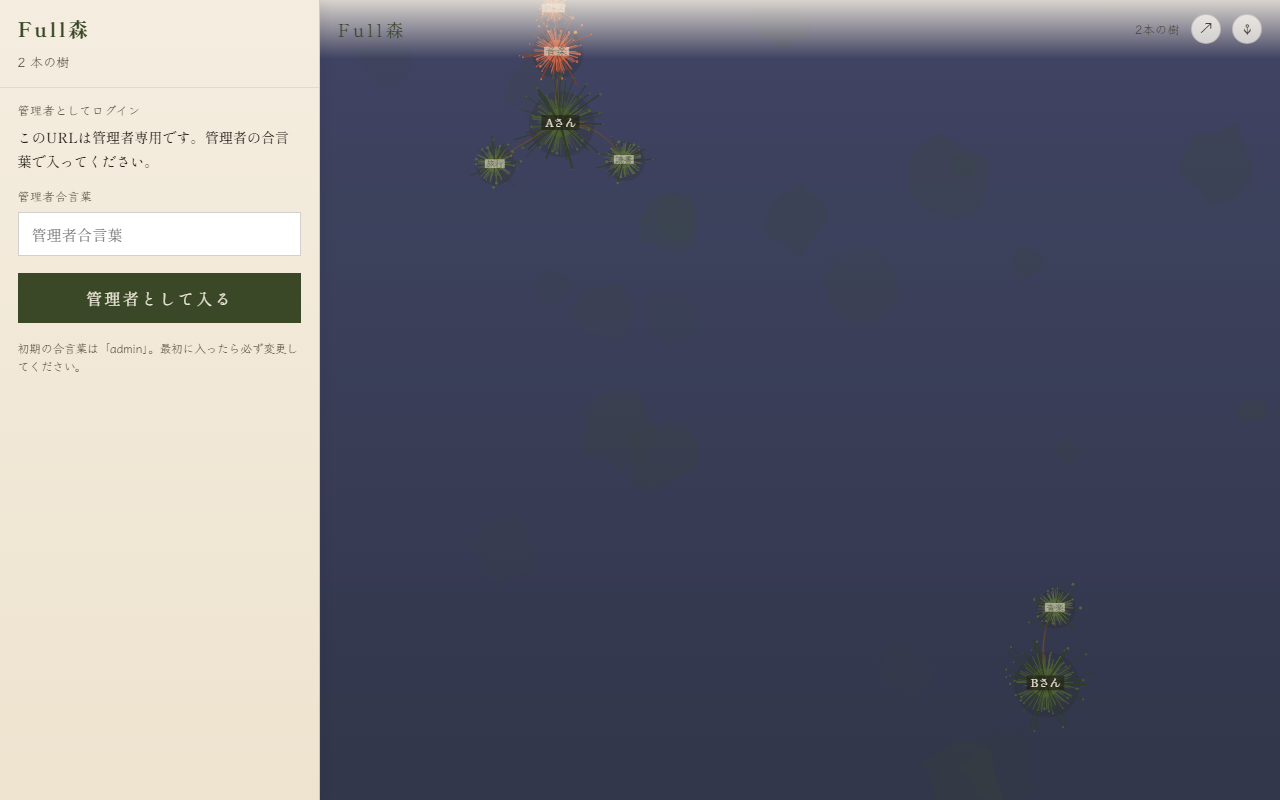
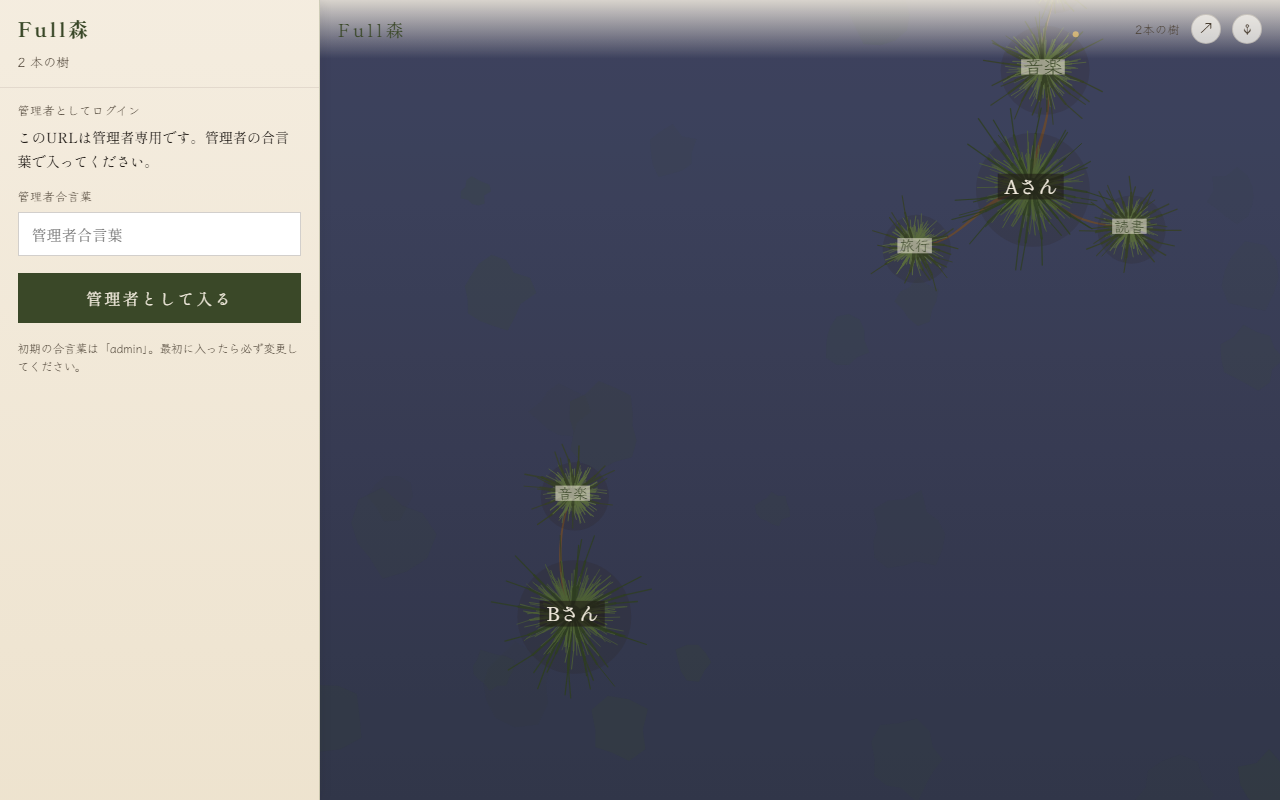
perf: 2-stroke tapered radial + reduced counts
Each radial is 2 strokes (thin full + thick base-40%) instead of 3
segments. Mid-layer count ~45 (was ~80), outer ~28 (was ~50).
Expected 3-4x speedup on bursty-tree scenes.

diff --git a/js/tree.js b/js/tree.js
@@ -1,39 +1,35 @@
 import { seededRandom, stringHash } from './utils.js';
 
-// 1本の放射曲線を先太・先細で描く(3セグメント分割)
-// (cx,cy) から length, angle a, 曲げ bend で先端 (x2,y2) まで
-// wBase→wTip に徐々に細くなる
+// 1本の放射曲線を先太・先細で描く(2ストロークで軽量)
+// 1. 全長を細めで引く(先端)  2. 基部40%だけ太く上書き
 function strokeTaperedRadial(ctx, cx, cy, a, len, bend, col, alpha, wBase, wTip) {
   const x2 = cx + Math.cos(a) * len;
   const y2 = cy + Math.sin(a) * len;
-  // 制御点は垂直方向の bend
   const nx = -Math.sin(a), ny = Math.cos(a);
   const mx = cx + Math.cos(a) * len * 0.5 + nx * bend;
   const my = cy + Math.sin(a) * len * 0.5 + ny * bend;
-  // 3 サンプル点 (t = 0, 0.33, 0.67, 1)
-  const SEG = 3;
-  const pts = [];
-  for (let i = 0; i <= SEG; i++) {
-    const t = i / SEG;
-    const mt = 1 - t;
-    pts.push([
-      mt * mt * cx + 2 * mt * t * mx + t * t * x2,
-      mt * mt * cy + 2 * mt * t * my + t * t * y2
-    ]);
-  }
+
   ctx.strokeStyle = col;
   ctx.globalAlpha = alpha;
   ctx.lineCap = 'round';
-  // 各セグメントを中点の線幅で描画 → 先細り
-  for (let i = 0; i < SEG; i++) {
-    const tMid = (i + 0.5) / SEG;
-    const w = wBase + (wTip - wBase) * tMid;
-    ctx.lineWidth = Math.max(0.4, w);
-    ctx.beginPath();
-    ctx.moveTo(pts[i][0], pts[i][1]);
-    ctx.lineTo(pts[i + 1][0], pts[i + 1][1]);
-    ctx.stroke();
-  }
+
+  // 1) 全長を細めで(先端)
+  ctx.lineWidth = Math.max(0.4, wTip);
+  ctx.beginPath();
+  ctx.moveTo(cx, cy);
+  ctx.quadraticCurveTo(mx, my, x2, y2);
+  ctx.stroke();
+
+  // 2) 基部40%を太く上書き
+  const t = 0.4;
+  const tMt = 1 - t;
+  const px = tMt * tMt * cx + 2 * tMt * t * mx + t * t * x2;
+  const py = tMt * tMt * cy + 2 * tMt * t * my + t * t * y2;
+  ctx.lineWidth = Math.max(0.6, wBase);
+  ctx.beginPath();
+  ctx.moveTo(cx, cy);
+  ctx.quadraticCurveTo(cx + (mx - cx) * t, cy + (my - cy) * t, px, py);
+  ctx.stroke();
 }
 
 // ====== 放射状バースト(ノード・幹共通) ======
@@ -54,7 +50,7 @@ export function drawRadialBurst(ctx, cx, cy, baseR, seed, col, strokeCol, opts =
 
   // --- (a) 密な近接曲線(約0.35〜0.75r) ---
   const rngMid = seededRandom(Math.max(1, Math.floor(seed) + 53));
-  const Nmid = Math.floor((40 + baseR * 0.7) * density);
+  const Nmid = Math.floor((22 + baseR * 0.45) * density);
   for (let i = 0; i < Nmid; i++) {
     const a = (Math.PI * 2 * i) / Nmid + (rngMid() - 0.5) * 0.3;
     const len = baseR * (0.45 + rngMid() * 0.3);
@@ -67,7 +63,7 @@ export function drawRadialBurst(ctx, cx, cy, baseR, seed, col, strokeCol, opts =
 
   // --- (b) 外周に突き出すギザギザ長曲線 ---
   const rngOut = seededRandom(Math.max(1, Math.floor(seed) + 113));
-  const Nout = Math.floor((26 + baseR * 0.45) * density);
+  const Nout = Math.floor((14 + baseR * 0.28) * density);
   for (let i = 0; i < Nout; i++) {
     const a = (Math.PI * 2 * i) / Nout + (rngOut() - 0.5) * 0.3;
     const spike = rngOut() < 0.38;
